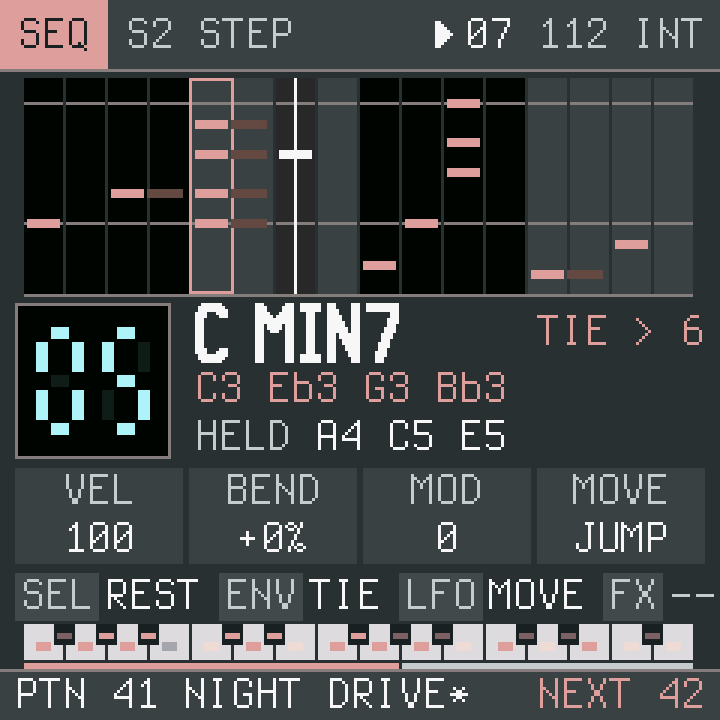
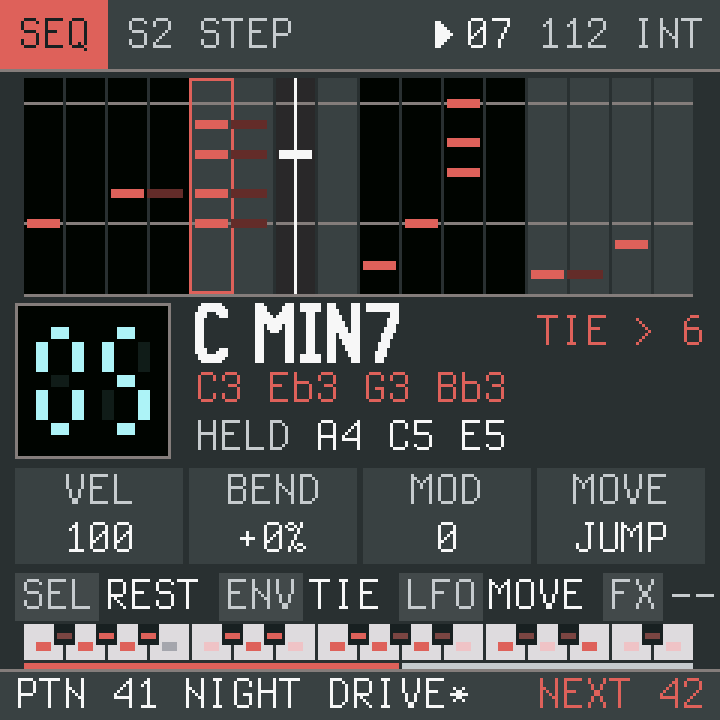
ui: Membrane's red is the JX-8P's red, as a fill (#47) (#217)
* ui: Membrane's red is the JX-8P's red, as a fill (Refs #47)

Eric on the device: "The dco page is more pink than the red used on the synth." The red sections
(DCO-1, VCF ENV, SEQ) were lightened until they passed as text on bg, which made them salmon
(DCF3) and pink (E5B6). A red that saturated can't pass the text floor, so it now stays the panel's
red (DB0B, #DE615A: hue 3, 67 % saturation) and is a fill only. It fills the header chip, page
strip, meters, focus frames and graph lines. The number jump puts each digit on a chip of its
section's color, and where a red section would color text (the focus row's section name, the knob
numbers) the text takes the lettering. The theme's new fill_only bits name these sections.

Tests: the red's hue, saturation and lightness, and the fill rules (3.0:1 on surface, ink 4.5:1 on
a chip). Text contrast is still checked for every section that colors text.

Assisted-by: Claude Code:claude-opus-5-5

* docs: Membrane's red as a fill only, in visual.md and the mockups (Refs #47)

Assisted-by: Claude Code:claude-opus-5-5

* ui: ENV-1 its own orange red; a dark track under the red meters (Refs #47)

Eric on #217: keep VCF ENV (ENV-1) apart from DCO-1, and give the red bars real lightness contrast
against their track.

- VCF ENV is FA23 (#FF4518: hue 12, fully saturated), a more orange red than DCO-1's DB0B
  (hue 3, 67 %). It passes the same fill rules (ink 4.8:1 on its chip, 3.0:1 on surface).
[…]

diff --git a/firmware/fm1_8p/draw.c b/firmware/fm1_8p/draw.c
@@ -224,6 +224,9 @@ static void footer(void)
 /* the page a slot is on (PLAY's knobs come from three), and its section's color and name */
 static uint32_t slot_page(const ui_slot *sl) { return (uint32_t)(sl - UI_SLOTS) / 4u; }
 static uint16_t slot_color(const ui_slot *sl) { return T->section[UI_PAGE_INFO[slot_page(sl)].color]; }
+/* section sec's color as text: its own, or the lettering where it only fills (the theme's fill_only) */
+static uint16_t sec_text(uint32_t sec) { return T->fill_only >> sec & 1u ? C_TEXT : T->section[sec]; }
+static uint16_t slot_text(const ui_slot *sl) { return sec_text(UI_PAGE_INFO[slot_page(sl)].color); }
 
 /* rows 28..77 */
 static void focus_row(void)
@@ -242,7 +245,7 @@ static void focus_row(void)
     H->cv_rect(M, 0, 64, 46, C_WINDOW);
     frame(M, 0, 64, 46, C_LINE);
     seg7(M + (64 - 38) / 2, 5, num, led_of(slot_color(s)), mix(C_WINDOW, led_of(slot_color(s)), T->ghost));
-    CV_TEXT(M + 72, 0, 0, UI_PAGE_INFO[slot_page(s)].section, slot_color(s));
+    CV_TEXT(M + 72, 0, 0, UI_PAGE_INFO[slot_page(s)].section, slot_text(s));
     CV_TEXT(M + 72 + TEXT_W(0, UI_PAGE_INFO[slot_page(s)].section) + 8, 0, 0, s->full, C_TEXT);
     x = d24(M + 72, 20, val, C_TEXT);
     if (*unit)
@@ -367,12 +370,14 @@ static void column(uint32_t k)
     uint16_t bg = act ? C_SURFHI : C_SURF, on;
     char val[UI_VALUE_LEN], unit[UI_VALUE_LEN], num[3];
     const uint16_t sc = s ? slot_color(s) : C_VCF;      /* its section's color (PLAY: three sections) */
+    const uint32_t sec = s ? UI_PAGE_INFO[slot_page(s)].color : 0u;
+    const uint16_t track = s && T->fill_only >> sec & 1u ? T->fill_track : C_LINE;   /* (dark under a red bar) */
     int32_t value, tw, x0;
     H->cv_begin(cw, 84, C_BG);
     H->cv_rect(x, 0, COL_W, 84, bg);
     if (s && s->kind != UI_RESERVED) {
         ui_slot_number(s, num);
-        text_c(x, COL_W, 3, 0, num, sc);
+        text_c(x, COL_W, 3, 0, num, slot_text(s));
         text_c(x, COL_W, 19, 0, s->label, act ? C_TEXT : C_DIM);
         if (s->kind == UI_PENDING) {            /* (interaction.md: a pending parameter shows --) */
             d24(x + (COL_W - d24_w("--")) / 2, 52, "--", C_DIM);
@@ -387,7 +392,7 @@ static void column(uint32_t k)
                 uint32_t n, at = ui_choice_pos(s, value, &n);
                 for (i = 0; i < n; i++)
                     H->cv_rect(x + 6 + (int32_t)(i * 46u / n), 40, (int32_t)(46u / n) - 2, 6,
-                               i == at ? on : C_LINE);
+                               i == at ? on : track);
             } else if (T->meter_segments) {
                 if (s->how == UI_HOW_SIZE || s->how == UI_HOW_TIME || s->how == UI_HOW_RATE) {   /* (from the left, as the bar) */
                     int32_t a, b;
@@ -395,11 +400,11 @@ static void column(uint32_t k)
                     lit = (1u << b) - 1u;
                 }
                 for (i = 0; i < UI_METER_SEGS; i++)  /* 44 px: 8 segments of about 4, 2 px gaps */
-                    H->cv_rect(x + 6 + ((int32_t)i * 23 + 2) / 4, 40, 4, 6, lit >> i & 1u ? on : C_LINE);
+                    H->cv_rect(x + 6 + ((int32_t)i * 23 + 2) / 4, 40, 4, 6, lit >> i & 1u ? on : track);
             } else {                            /* one bar in a 44 px track */
                 int32_t a, b;
                 ui_slot_bar(s, value, 44, &a, &b);
-                H->cv_rect(x + 6, 40, 44, 6, C_LINE);
+                H->cv_rect(x + 6, 40, 44, 6, track);
                 H->cv_rect(x + 6 + a, 40, b - a, 6, on);
             }
             ui_column(s->id, value, val, unit);
@@ -618,7 +623,7 @@ static void jump_part(uint32_t b, uint32_t part)
         seg7(M + (64 - 38) / 2, 5, num, led_of(T->section[UI_SEC_GLO]), mix(C_WINDOW, led_of(T->section[UI_SEC_GLO]), T->ghost));
         CV_TEXT(M + 72, 0, 0, "GO TO PARAMETER", C_TEXT);
         if (U->jump > 0) {
-            CV_TEXT(M + 72, 20, 0, UI_SECTION_NAME[U->jump - 1], T->section[UI_PAGE_INFO[UI_SECTION_PAGE[U->jump - 1]].color]);
+            CV_TEXT(M + 72, 20, 0, UI_SECTION_NAME[U->jump - 1], sec_text(UI_PAGE_INFO[UI_SECTION_PAGE[U->jump - 1]].color));
         } else {
             CV_TEXT(M + 72, 20, 0, "SECTION, THEN KNOB", C_DIM);
         }
@@ -634,8 +639,14 @@ static void jump_part(uint32_t b, uint32_t part)
                 char dig[2];
                 int32_t x = M + (int32_t)i * 118, y = 4 + (int32_t)r * 28 + 4 - (y0 - 78);
                 dig[0] = (char)('0' + d), dig[1] = 0;
-                CV_TEXT(x, y, 0, dig, T->section[UI_PAGE_INFO[UI_SECTION_PAGE[d]].color]);
-                CV_TEXT(x + 14, y, 0, UI_SECTION_NAME[d], C_TEXT);
+                const uint32_t sec = UI_PAGE_INFO[UI_SECTION_PAGE[d]].color;
+                if (T->chip) {                  /* the digit on a chip of its color, as the header's */
+                    H->cv_rect(x - 3, y - 2, TEXT_W(0, dig) + 6, 20, T->section[sec]);
+                    CV_TEXT(x, y, 0, dig, T->ink);
+                } else {
+                    CV_TEXT(x, y, 0, dig, sec_text(sec));
+                }
+                CV_TEXT(x + 16, y, 0, UI_SECTION_NAME[d], C_TEXT);
             }
         blit(0, y0, 240, hh);
     }                                           /* (columns 2-4: within column 1's band) */

diff --git a/tests/test_ui.c b/tests/test_ui.c
@@ -1740,8 +1740,13 @@ TT_TEST(ui_themes_meet_their_contrast_rules)
             TT_CHECK(ui_contrast(t->dim, surf[i]) >= TH[n].dim);
         }
         for (i = 0; i < UI_SECTIONS; i++) {
-            TT_CHECK(ui_contrast(t->section[i], t->surface) >= 4.7);
-            TT_CHECK(ui_contrast(t->section[i], t->bg) >= 4.9);
+            if (!(t->fill_only >> i & 1u)) {    /* a color that is also text */
+                TT_CHECK(ui_contrast(t->section[i], t->surface) >= 4.7);
+                TT_CHECK(ui_contrast(t->section[i], t->bg) >= 4.9);
+            }
+            TT_CHECK(ui_contrast(t->section[i], t->surface) >= 3.0);   /* a fill, a meter, a frame */
+            if (t->chip)
+                TT_CHECK(ui_contrast(t->ink, t->section[i]) >= 4.5);   /* the chip's name */
         }
     }
 }
@@ -1908,6 +1913,76 @@ TT_TEST(ui_theme_applies_after_its_debounce)
     TT_CHECK_EQ(ui_theme_shown(&ui_u), (uint32_t)UI_THEME_NIGHT);
 }
 
+/* an RGB565 color's hue (degrees, -180 .. 180), saturation and lightness (0 .. 1), as the panel shows it */
+static void ui_hsl(uint16_t c, double *hue, double *sat, double *l)
+{
+    uint32_t r5 = c >> 11, g6 = c >> 5 & 63u, b5 = c & 31u;
+    double r = (double)(r5 << 3 | r5 >> 2) / 255.0, g = (double)(g6 << 2 | g6 >> 4) / 255.0;
+    double b = (double)(b5 << 3 | b5 >> 2) / 255.0;
+    double hi = r > g ? (r > b ? r : b) : (g > b ? g : b), lo = r < g ? (r < b ? r : b) : (g < b ? g : b);
+    double d = hi - lo;
+    *l = (hi + lo) / 2.0;
+    *sat = d > 0.0 ? d / (1.0 - fabs(2.0 * *l - 1.0)) : 0.0;
+    if (d <= 0.0)
+        *hue = 0.0;
+    else if (hi == r)
+        *hue = 60.0 * (g - b) / d;
+    else if (hi == g)
+        *hue = 60.0 * ((b - r) / d + 2.0);
+    else
+        *hue = 60.0 * ((r - g) / d + 4.0);
+    if (*hue > 180.0)
+        *hue -= 360.0;
+}
+
+/* Membrane's red sections read as the JX-8P's red buttons, not pink (Eric, 2026-11-14): saturated,
+ * no lighter than the panel's own, DCO-1 and SEQ true red to a little orange. ENV-1 (VCF ENV) is a
+ * shade of its own, a more orange red, told apart from DCO-1's at a glance. */
+TT_TEST(ui_membrane_red_is_the_panels_red)
+{
+    static const uint32_t RED[3] = {UI_SEC_DCO1, UI_SEC_VCF_ENV, UI_SEC_SEQ};
+    double hue[3], sat[3], l[3];
+    uint32_t i;
+    for (i = 0; i < 3u; i++) {
+        ui_hsl(UI_MEMBRANE.section[RED[i]], &hue[i], &sat[i], &l[i]);
+        TT_CHECK(sat[i] >= 0.6);
+        TT_CHECK(l[i] <= 0.62);
+        TT_CHECK(UI_MEMBRANE.fill_only >> RED[i] & 1u);  /* too dark for text: drawn as a fill */
+    }
+    TT_CHECK(hue[0] >= -2.0 && hue[0] <= 10.0);
+    TT_CHECK(hue[2] >= -2.0 && hue[2] <= 10.0);
+    TT_CHECK(hue[1] >= 8.0 && hue[1] <= 18.0);          /* still red, toward orange */
+    TT_CHECK(hue[1] - hue[0] >= 6.0);                   /* ENV-1 apart from DCO-1 */
+    TT_CHECK(fabs(sat[1] - sat[0]) >= 0.15);
+}
+
+/* A fill-only section's meter bar stands out from its track by lightness, not hue alone (Eric,
+ * 2026-11-14): its track is the theme's fill_track, and the bar, lit or dimmed as an unfocused
+ * column has it, is at least 3:1 on it. The track still shows on the column. */
+TT_TEST(ui_fill_only_meters_have_a_dark_track)
+{
+    static const ui_theme *const TH[2] = {&UI_MEMBRANE, &UI_NIGHT_PANEL};
+    uint32_t n, i;
+    for (n = 0; n < 2u; n++) {
+        const ui_theme *t = TH[n];
+        for (i = 0; i < UI_SECTIONS; i++) {
+            uint16_t c = t->section[i], dimmed;
+            uint32_t r, g, b;
+            if (!(t->fill_only >> i & 1u))
+                continue;
+            r = ((uint32_t)(t->surface >> 11) * 102u + (uint32_t)(c >> 11) * 154u) >> 8;   /* draw.c's mix, 154 */
+            g = ((uint32_t)(t->surface >> 5 & 63u) * 102u + (uint32_t)(c >> 5 & 63u) * 154u) >> 8;
+            b = ((uint32_t)(t->surface & 31u) * 102u + (uint32_t)(c & 31u) * 154u) >> 8;
+            dimmed = (uint16_t)(r << 11 | g << 5 | b);
+            TT_CHECK(ui_contrast(c, t->fill_track) >= 3.0);
+            TT_CHECK(ui_contrast(dimmed, t->fill_track) >= 3.0);
+            TT_CHECK(ui_contrast(t->fill_track, t->surface) >= 1.8);
+            TT_CHECK(ui_contrast(t->fill_track, t->surface_hi) >= 1.8);
+        }
+    }
+    TT_CHECK(UI_MEMBRANE.fill_only != 0u);              /* (the loop has something to check) */
+}
+
 static void run_ui_tests(void)
 {
     TT_RUN(ui_theme_applies_after_its_debounce);
@@ -1916,6 +1991,8 @@ static void run_ui_tests(void)
     TT_RUN(ui_glo_holds_the_patch_controls);
     TT_RUN(ui_glo_opens_and_goes_back);
     TT_RUN(ui_themes_meet_their_contrast_rules);
+    TT_RUN(ui_membrane_red_is_the_panels_red);
+    TT_RUN(ui_fill_only_meters_have_a_dark_track);
     TT_RUN(ui_isqrt_is_the_floor);
     TT_RUN(ui_settings_default_and_ranges);
     TT_RUN(ui_jump_screen_holds_the_controls_in_edit);

diff --git a/docs/ui/mockups/render.py b/docs/ui/mockups/render.py
@@ -395,14 +395,17 @@ THEMES = {
         focus=(1.0, 1.0),           # frames inward from the edge, as mixes of bg -> accent
         hatch=0.0,                  # fill under graph curves (0: none)
         art="badge",                # what fills the graph slot on PLAY
-        playhead="#F6F5F0", cursor="#DC9C9E", tie_mix=0.45,
+        playhead="#F6F5F0", cursor="#DE615A", tie_mix=0.45,
         black_key="#1E2023",        # the key strip's black keys
         index=0, short="MEMB",      # THEME's value: its index, and its label in a 56 px column
         # the buttons: red (top left, COPY/WRITE), amber (KEY MODE, AFTER TOUCH), cream-gray (TONE),
-        # light gray (EDIT), blue (PATCH CHAIN), lightened to meet the contrast rules
-        sec={"DCO-1": "#DC9C9E", "DCO-2": "#D8AC5F", "MIX": "#CDCAC4", "VCF": "#8DB0D6", "VCF ENV": "#E5B6B7",
-             "VCA": "#C2BCAE", "LFO": "#B0C8E2", "CTRL": "#CCA869", "SEQ": "#DC9C9E", "GLO": "#AAB0AC",
+        # light gray (EDIT), blue (PATCH CHAIN), lightened to meet the contrast rules; the red stays the
+        # panel's red, a fill only (its text takes the lettering)
+        sec={"DCO-1": "#DE615A", "DCO-2": "#D8AC5F", "MIX": "#CDCAC4", "VCF": "#8DB0D6", "VCF ENV": "#FF4518",
+             "VCA": "#C2BCAE", "LFO": "#B0C8E2", "CTRL": "#CCA869", "SEQ": "#DE615A", "GLO": "#AAB0AC",
              "PLAY": "#D6D5CE"},
+        fill_only=("DCO-1", "VCF ENV", "SEQ"),     # the red: too dark for text, its text the lettering
+        fill_track="#050506",       # the meter track under a fill-only bar: the LED window
         sun=["#FFD040", "#FFB038", "#FF8C38", "#FF6848", "#F04870", "#D03890"], grid=None, horizon=None,
     ),
     "night-panel": dict(
@@ -423,6 +426,8 @@ THEMES = {
         sec={"DCO-1": "#FF5FA0", "DCO-2": "#FF8A3D", "MIX": "#D8D4F0", "VCF": "#2FD8FF", "VCF ENV": "#FFC23D",
              "VCA": "#7CF07C", "LFO": "#B07CFF", "CTRL": "#3DA0FF", "SEQ": "#FF3DD8", "GLO": "#D8D4F0",
              "PLAY": "#FF3DD8"},
+        fill_only=(),
+        fill_track="#2E2E4C",
         sun=["#FFD84A", "#FFB040", "#FF8840", "#FF5C60", "#F03C90", "#C030C0"], grid="#5A2A9A", horizon="#FF3DD8",
     ),
 }
@@ -529,6 +534,11 @@ def accent(t, sec):
     return t["sec"][sec]
 
 
+def text_accent(t, sec):
+    # a section's color as text: the lettering where the color only fills (fill_only)
+    return t["text"] if sec in t["fill_only"] else t["sec"][sec]
+
+
 def led_color(t, sec):
     return t["led"] or t["sec"][sec]
 
@@ -602,11 +612,11 @@ def focus_frames(sc, t, x, y, w, h, col, bg):
         sc.frame(x + i, y + i, w - 2 * i, h - 2 * i, mix(bg, col, m))
 
 
-def meter(sc, t, x, y, w, h, val, col, active, bg):
+def meter(sc, t, x, y, w, h, val, col, active, bg, sec=None):
     """A knob's position. ('range', f), ('bipolar', f -1..1) or ('choice', i, n). A theme with
     meter_segments 0 draws a continuous bar; a choice always draws one segment per choice."""
     on_c = col if active else mix(bg, col, 0.6)
-    off_c = t["line"]
+    off_c = t["fill_track"] if sec in t["fill_only"] else t["line"]   # dark under a fill-only bar
     kind = val[0]
     if kind == "choice":
         _, i, n = val
@@ -656,9 +666,9 @@ def knob_columns(sc, t, rows, focus, sec_of=None):
         act = k == focus
         bg = t["surface_hi"] if act else t["surface"]
         sc.fill(x, y, COL_W, h, bg)
-        sc.text(x, y + 3, n, col, align="c", w=COL_W)
+        sc.text(x, y + 3, n, text_accent(t, sec), align="c", w=COL_W)
         sc.text(x, y + 19, label, t["text"] if act else t["dim"], align="c", w=COL_W)
-        meter(sc, t, x + 6, y + 40, COL_W - 12, 6, mval, col, act, bg)
+        meter(sc, t, x + 6, y + 40, COL_W - 12, 6, mval, col, act, bg, sec)
         if sc.dtext_w("D24", val) <= COL_W - 4 or not val.isalpha():
             value_text(sc, t, x, COL_W, y + 52, val, unit, t["text"] if act else t["dim"])
         else:                             # a long choice falls back to Terminus
@@ -672,7 +682,7 @@ def focus_block(sc, t, sec, secname, num, label, val, unit):
     led_window(sc, t, M, y, 64, h, num, sec)
     x = M + 72
     col = accent(t, sec)
-    xe = sc.text(x, y, secname, col)
+    xe = sc.text(x, y, secname, text_accent(t, sec))
     sc.text(xe + 8, y, label, t["text"])
     xe = sc.dtext(x, y + 20, "D24", val, t["text"])
     if unit:

diff --git a/firmware/ui_map.c b/firmware/ui_map.c
@@ -7,10 +7,13 @@ const ui_theme UI_MEMBRANE = {
     /* the JX-8P's own colors (Eric, 2026-11-14, from a render of its panel): the button strip's dark
      * gray for the screen, the body's mid gray for rules and frames, the lettering for text, the LED
      * display's pale cyan, and the buttons' red, amber, cream, gray and blue as the sections, lightened
-     * only as far as the contrast rules need (the body gray is too light to put text on) */
+     * only as far as the contrast rules need (the body gray is too light to put text on). The red stays
+     * the panel's red (Eric: not pink), too dark for text: it fills chips, meters and frames, and its
+     * text takes the lettering (fill_only). ENV-1 (VCF ENV) has its own, more orange red (Eric: apart
+     * from DCO-1). */
     .bg = 0x2986u, .surface = 0x3A08u, .surface_hi = 0x4249u, .line = 0x83EFu, .text = 0xF7BEu,
     .dim = 0xC659u, .ink = 0x1904u, .window = 0x0020u, .led = 0xAF9Eu,
-    .section = {0xDCF3u, 0xDD6Bu, 0xCE58u, 0x8D9Au, 0xE5B6u, 0xC5F5u, 0xB65Cu, 0xCD4Du, 0xDCF3u, 0xAD95u, 0xD6B9u},
+    .section = {0xDB0Bu, 0xDD6Bu, 0xCE58u, 0x8D9Au, 0xFA23u, 0xC5F5u, 0xB65Cu, 0xCD4Du, 0xDB0Bu, 0xAD95u, 0xD6B9u},
     .ghost = 26u,                       /* 10 % */
     .chip = 1u,
     .meter_segments = 0u,
@@ -18,6 +21,8 @@ const ui_theme UI_MEMBRANE = {
     .hatch = 0u,
     .sun = {0xFE88u, 0xFD87u, 0xFC67u, 0xFB49u, 0xF24Eu, 0xD1D2u},
     .art = UI_ART_BADGE,
+    .fill_only = 1u << UI_SEC_DCO1 | 1u << UI_SEC_VCF_ENV | 1u << UI_SEC_SEQ,
+    .fill_track = 0x0020u,              /* the LED window's near black: the red bars by lightness too */
 };
 
 /* visual.md: Night Panel */
@@ -34,6 +39,7 @@ const ui_theme UI_NIGHT_PANEL = {
     .led_section = 1u,
     .art = UI_ART_SUN,
     .grid = 0x5953u, .horizon = 0xF9FBu,
+    .fill_track = 0x2969u,              /* (no fill_only sections: the line) */
 };
 
 /* interaction.md 3: the pages, as the JX-8P's panel has its sections */

diff --git a/firmware/ui_map.h b/firmware/ui_map.h
@@ -90,6 +90,10 @@ typedef struct {
     uint8_t led_section;                /* 1: the LED digits in the section's color (the led key: none) */
     uint8_t art;                        /* the PLAY art: UI_ART_BADGE or UI_ART_SUN (a sun over a grid) */
     uint16_t grid, horizon;             /* the sun's perspective grid and horizon (UI_ART_SUN) */
+    uint16_t fill_only;                 /* bit per section: its color fills (chips, meters, frames) but is
+                                         * too dark for text, which takes the lettering (sec_text) */
+    uint16_t fill_track;                /* the meter track under a fill_only section's bar: dark enough that
+                                         * the bar stands out by lightness */
 } ui_theme;
 enum { UI_ART_BADGE, UI_ART_SUN };
 

diff --git a/docs/ui/visual.md b/docs/ui/visual.md
@@ -129,7 +129,7 @@ the two themes:
 | `focus` | `(1.0, 1.0)` | `(1.0, 0.45, 0.2)` | frames inward from the focused element's edge, as mixes from `bg` to the accent: a 2 px frame, or a glow |
 | `hatch` | 0 | 16 % | the fill under graph curves |
 | `art` | `badge` | `sun` | the PLAY slot: six sunset bands with the device name, or the striped sun over a perspective grid |
-| `playhead`, `cursor` | `F7BE`, `DCF3` | `2EDF`, `EF7F` | the SEQ playhead and step cursor |
+| `playhead`, `cursor` | `F7BE`, `DB0B` | `2EDF`, `EF7F` | the SEQ playhead and step cursor |
 | `sun` | `FE88 FD87 FC67 FB49 F24E D1D2` | `FEC9 FD88 FC48 FAEC F1F2 C198` | the sunset bands (PLAY only) |
 | `grid`, `horizon` | none | `5953`, `F9FB` | the perspective grid (PLAY only) |
 
@@ -142,19 +142,26 @@ is the button strip's dark gray. The body's mid gray is too light to put text on
 rules, frames and unlit meters. Text is the lettering, the LED window the display's pale cyan, and
 the sections the panel buttons' colors, named below by the button each comes from. The panel has
 five button colors for eight sections, so some repeat on sections far apart, and each is lightened
-only as far as the contrast rules below need (the red most, to a soft red).
+only as far as the contrast rules below need. The red is the exception: lightened enough for text it
+read as pink (Eric, 2026-11-14), so it stays the panel's red and is a fill only. It fills the header
+chip, the page strip, meters, focus frames and graph lines, the number jump puts each digit on a
+chip of its section's color, and where a red section would color text (the focus row's section name,
+the knob numbers) the text takes the lettering instead. The theme's `fill_only` lists these sections.
+Their meter bars sit on a near-black track (`fill_track`, the LED window's `0020`), so a bar stands
+out by lightness and not by hue alone. VCF ENV takes a more orange red of its own, `FA23`, so ENV-1
+stays apart from DCO-1 (Eric, 2026-11-14).
 
 | section | Membrane | Night Panel |
 | --- | --- | --- |
-| 1x DCO-1 | `DCF3` red (COPY/WRITE) | `FAF4` pink |
+| 1x DCO-1 | `DB0B` red (COPY/WRITE), fill only | `FAF4` pink |
 | 2x DCO-2 | `DD6B` amber (KEY MODE) | `FC47` orange |
 | 3x MIX | `CE58` cream-gray (TONE) | `DEBE` lilac white |
 | 4x VCF | `8D9A` blue (PATCH CHAIN) | `2EDF` cyan |
-| 5x VCF ENV | `E5B6` pale red | `FE07` amber |
+| 5x VCF ENV | `FA23` orange red, fill only | `FE07` amber |
 | 6x VCA | `C5F5` light gray (EDIT) | `7F8F` green |
 | 7x LFO | `B65C` pale blue | `B3FF` violet |
 | 8x CTRL | `CD4D` amber (AFTER TOUCH) | `3D1F` blue |
-| SEQ | `DCF3` red (WRITE) | `F9FB` magenta |
+| SEQ | `DB0B` red (WRITE), fill only | `F9FB` magenta |
 | GLO | `AD95` gray | `DEBE` lilac white |
 | PLAY | `D6B9` the lettering | `F9FB` magenta |
 
@@ -164,7 +171,11 @@ All ratios are WCAG ratios, computed on the quantized RGB565 values.
 
 - **Text:** at least 8.5:1 on every surface in Membrane, and 13.9:1 in Night Panel.
 - **Dim labels:** at least 5.6:1 in Membrane and 5.6:1 in Night Panel.
-- **Section colors:** at least 4.7:1 on `surface` and 4.9:1 on `bg`.
+- **Section colors:** at least 4.7:1 on `surface` and 4.9:1 on `bg`, except a fill-only color.
+- **Fills:** every section color at least 3.0:1 on `surface`, and with a chip header, `ink` on it at
+  least 4.5:1.
+- **Fill-only meters:** the bar at least 3.0:1 on `fill_track`, lit or dimmed, and the track at least
+  1.8:1 on `surface` and `surface_hi`.
 
 ### Where the layouts differ, and why it stays minimal
 
